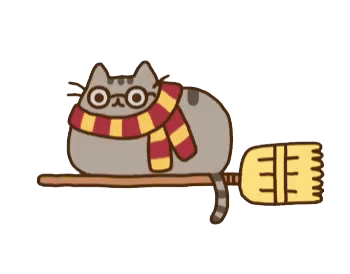
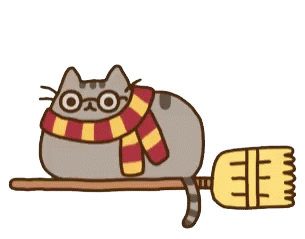
UPDATE
*added Pusheen cats
*really worked on CSS and HTML

diff --git a/css/styles.css b/css/styles.css
@@ -1,3 +1,3 @@
[2 lines of base64/hex data omitted]
 
 /*# sourceMappingURL=styles.css.map */

diff --git a/index.html b/index.html
@@ -25,27 +25,28 @@
     <!-- Doodle Stage -->
     <div id="stage">
 
-<svg version="1.1" id="Layer_1" xmlns="http://www.w3.org/2000/svg" xmlns:xlink="http://www.w3.org/1999/xlink" x="0px" y="0px"
-	 viewBox="0 0 471.2 189" style="enable-background:new 0 0 471.2 189;" xml:space="preserve">
-<title>googletitle</title>
-<g>
-	<path class="st0" d="M13.5,98.7V53.1c0-12.9,3.5-22.3,10.4-28.4c6.9-6,16-9.1,27.2-9.1c11.5,0,20.9,2.8,28.2,8.5
+            <img src="/img/cheetocat.png" alt="">
+
+            <svg version="1.1" id="Layer_1" xmlns="http://www.w3.org/2000/svg" xmlns:xlink="http://www.w3.org/1999/xlink" x="0px" y="0px" viewBox="0 0 471.2 189" style="enable-background:new 0 0 471.2 189;" xml:space="preserve">
+                <title>googletitle</title>
+                <g>
+                    <path class="st0" d="M13.5,98.7V53.1c0-12.9,3.5-22.3,10.4-28.4c6.9-6,16-9.1,27.2-9.1c11.5,0,20.9,2.8,28.2,8.5
 		c7.2,5.7,10.9,13.3,10.9,22.9c0,3.9-0.8,6.6-2.5,8c-1.7,1.4-4.4,2.1-8.1,2.1c-7,0-10.5-2.2-10.6-6.7c-0.3-4.8-1.7-8.7-4.1-11.7
 		c-2.4-3-6.7-4.5-12.9-4.5c-11.4,0-17.2,6.3-17.2,18.8v45.6c0,12.5,5.7,18.8,17,18.8c5.4,0,9.7-1.6,12.7-4.7c3-3.2,4.5-7.8,4.5-14.1
 		v-9.6H55.7c-2.1,0-3.7-0.8-4.8-2.5c-1.1-1.6-1.7-3.6-1.7-5.9c0-2.2,0.6-4.1,1.8-5.8c1.2-1.7,2.8-2.5,4.7-2.5h27.8
 		c2.1,0,3.7,0.7,4.9,2c1.2,1.4,1.8,3,1.8,4.8v19.4c0,13-3.5,22.4-10.5,28.4c-7,6-16.3,9-27.9,9c-11.7,0-20.9-3-27.9-9
-		C17,121.2,13.5,111.7,13.5,98.7z"/>
-	<path class="st0" d="M102.4,103.1V89.7c0-8.9,3.5-16.7,10.5-23.3c7-6.6,15.3-9.9,25-9.9c9.5,0,17.8,3.3,24.8,9.8
+		C17,121.2,13.5,111.7,13.5,98.7z" />
+                    <path class="st0" d="M102.4,103.1V89.7c0-8.9,3.5-16.7,10.5-23.3c7-6.6,15.3-9.9,25-9.9c9.5,0,17.8,3.3,24.8,9.8
 		c7.1,6.5,10.6,14.3,10.6,23.4v13.4c0,8.8-3.5,16.6-10.6,23.4c-7.1,6.8-15.4,10.1-24.8,10.1c-9.5,0-17.8-3.4-24.8-10.1
 		C105.9,119.7,102.4,111.9,102.4,103.1z M123.5,103.1c0,3.9,1.4,7.4,4.2,10.4c2.8,3,6.2,4.5,10.1,4.5c3.8,0,7.2-1.5,10-4.5
 		c2.9-3,4.3-6.5,4.3-10.4V89.8c0-3.7-1.4-7-4.3-10.1c-2.9-3-6.2-4.5-10-4.5c-3.9,0-7.3,1.5-10.1,4.5c-2.8,3-4.2,6.3-4.2,10.1V103.1z
-		"/>
-	<path class="st0" d="M183.8,103.1V89.7c0-8.9,3.5-16.7,10.5-23.3c7-6.6,15.3-9.9,25-9.9c9.5,0,17.8,3.3,24.8,9.8
+		" />
+                    <path class="st0" d="M183.8,103.1V89.7c0-8.9,3.5-16.7,10.5-23.3c7-6.6,15.3-9.9,25-9.9c9.5,0,17.8,3.3,24.8,9.8
 		c7.1,6.5,10.6,14.3,10.6,23.4v13.4c0,8.8-3.5,16.6-10.6,23.4c-7.1,6.8-15.4,10.1-24.8,10.1c-9.5,0-17.8-3.4-24.8-10.1
 		C187.3,119.7,183.8,111.9,183.8,103.1z M204.8,103.1c0,3.9,1.4,7.4,4.2,10.4c2.8,3,6.2,4.5,10.1,4.5c3.8,0,7.2-1.5,10-4.5
 		c2.9-3,4.3-6.5,4.3-10.4V89.8c0-3.7-1.4-7-4.3-10.1c-2.9-3-6.2-4.5-10-4.5c-3.9,0-7.3,1.5-10.1,4.5c-2.8,3-4.2,6.3-4.2,10.1V103.1z
-		"/>
-	<path class="st0" d="M262.4,148.2c0-7.5,4-13.3,11.9-17.3c-4.6-2.2-6.9-5.7-6.9-10.5c0-4.8,2.8-9,8.3-12.7
+		" />
+                    <path class="st0" d="M262.4,148.2c0-7.5,4-13.3,11.9-17.3c-4.6-2.2-6.9-5.7-6.9-10.5c0-4.8,2.8-9,8.3-12.7
 		c-6.8-5.2-10.1-12.1-10.1-20.8v-3.4c0-8,2.9-14.4,8.8-19.4c5.9-5,13.6-7.5,23-7.5c7.2,0,13.4,1.6,18.6,4.7
 		c3.3-7.4,6.6-11.1,10-11.1c2.5,0,4.5,0.7,6,2.1c1.5,1.4,2.3,2.9,2.3,4.4c0,1.7-0.9,3.3-2.6,4.6c-4,2.8-6.6,4.9-7.7,6.2
 		c3.8,4.5,5.7,9.8,5.7,16v3.4c0,7.8-3,14.4-9.1,19.5c-6,5.2-13.8,7.8-23.3,7.8c-3.9,0-7.5-0.5-10.6-1.5c-1.3,1.1-2,2.2-2,3.3
@@ -54,18 +55,18 @@
 		 M282.3,146.1c0,3.6,1.5,6.4,4.6,8.5c3,2.1,6.8,3.1,11.3,3.1c4.5,0,8.2-1,11.1-3.1c2.9-2.1,4.4-4.8,4.4-8.3c0-1.5-0.3-2.9-0.8-4
 		c-0.5-1.1-1.5-2.1-2.9-2.9c-1.4-0.8-2.6-1.4-3.6-1.9c-1-0.5-2.7-0.9-5-1.3c-2.3-0.4-3.9-0.6-5-0.7c-1-0.1-2.8-0.3-5.3-0.7
 		C285.2,137.5,282.3,141.3,282.3,146.1z M286,86.8c0,4.2,1,7.8,3.1,10.5c2.1,2.8,5,4.2,8.7,4.2c3.6,0,6.4-1.3,8.5-4
-		c2.1-2.7,3.1-6.2,3.1-10.5v-3.4c0-4-1.1-7.4-3.2-10.1c-2.1-2.7-5-4.1-8.6-4.1s-6.4,1.3-8.5,4c-2.1,2.7-3.1,6.1-3.1,10.2V86.8z"/>
-	<path class="st0" d="M346.3,128.5V18.8c0-2,1-3.5,2.9-4.7c1.9-1.2,4.4-1.8,7.6-1.8c2.9,0,5.4,0.6,7.5,1.8c2.1,1.2,3.1,2.8,3.1,4.7
-		v109.6c0,1.6-1.1,3.2-3.2,4.6c-2.1,1.4-4.6,2.1-7.4,2.1c-2.9,0-5.4-0.7-7.4-2C347.3,131.7,346.3,130.2,346.3,128.5z"/>
-	<path class="st0" d="M382.3,103.1V89.2c0-8.9,3.5-16.6,10.5-23c7-6.4,15.4-9.6,25.3-9.6c9.3,0,17.2,2.9,23.8,8.8
+		c2.1-2.7,3.1-6.2,3.1-10.5v-3.4c0-4-1.1-7.4-3.2-10.1c-2.1-2.7-5-4.1-8.6-4.1s-6.4,1.3-8.5,4c-2.1,2.7-3.1,6.1-3.1,10.2V86.8z" />
+                    <path class="st0" d="M346.3,128.5V18.8c0-2,1-3.5,2.9-4.7c1.9-1.2,4.4-1.8,7.6-1.8c2.9,0,5.4,0.6,7.5,1.8c2.1,1.2,3.1,2.8,3.1,4.7
+		v109.6c0,1.6-1.1,3.2-3.2,4.6c-2.1,1.4-4.6,2.1-7.4,2.1c-2.9,0-5.4-0.7-7.4-2C347.3,131.7,346.3,130.2,346.3,128.5z" />
+                    <path class="st0" d="M382.3,103.1V89.2c0-8.9,3.5-16.6,10.5-23c7-6.4,15.4-9.6,25.3-9.6c9.3,0,17.2,2.9,23.8,8.8
 		c6.6,5.9,9.9,13.2,9.9,22.1c0,3.2-0.4,5.9-1.2,8c-0.8,2.1-2.1,3.6-3.8,4.4c-1.7,0.9-3.2,1.4-4.7,1.6c-1.4,0.2-3.3,0.3-5.6,0.3
 		h-33.2v2.5c0,4.7,1.7,8.5,5.2,11.4c3.5,2.9,8.1,4.3,13.9,4.3c4.1,0,8.2-1,12.3-3.1c4-2.1,6.6-3.1,7.8-3.1c2.3,0,4.2,1.1,5.7,3.2
 		c1.5,2.1,2.3,4.2,2.3,6.1c0,3.1-2.8,6.1-8.3,9.1c-5.5,3-12.3,4.5-20.5,4.5c-11.7,0-21.2-3.1-28.5-9.2
 		C386,121.2,382.3,113.1,382.3,103.1z M403.4,89.4h23.9c1.7,0,3-0.3,3.7-0.8c0.7-0.6,1.1-1.7,1.1-3.3c0-3.6-1.4-6.5-4.2-8.7
-		c-2.8-2.2-6.2-3.4-10.2-3.4c-3.8,0-7.1,1.1-10,3.3c-2.8,2.2-4.2,5.1-4.2,8.6V89.4z"/>
-</g>
-</svg>
-
+		c-2.8-2.2-6.2-3.4-10.2-3.4c-3.8,0-7.1,1.1-10,3.3c-2.8,2.2-4.2,5.1-4.2,8.6V89.4z" />
+                </g>
+            </svg>
+        </div>
 
 
         <input type="text" />
@@ -74,15 +75,14 @@
             <button>I'm Feeling Lucky</button>
         </div>
 
-    </div>
 
-        <!-- jQuery -->
-        <script src="https://ajax.googleapis.com/ajax/libs/jquery/2.1.3/jquery.min.js"></script>
-        <!-- jQuery Plugin -->
-        <script src="js/plugin.js"></script>
-        <!-- YOUR SCRIPTS GO HERE -->
-        <script src="js/jquery.drawsvg.min.js"></script>
-        <script src="js/scripts.js"></script>
+    <!-- jQuery -->
+    <script src="https://ajax.googleapis.com/ajax/libs/jquery/2.1.3/jquery.min.js"></script>
+    <!-- jQuery Plugin -->
+    <script src="js/plugin.js"></script>
+    <!-- YOUR SCRIPTS GO HERE -->
+    <script src="js/jquery.drawsvg.min.js"></script>
+    <script src="js/scripts.js"></script>
 
 
 </body>

diff --git a/scss/styles.scss b/scss/styles.scss
@@ -1,30 +1,46 @@
-    // Grand Central Station
-    @import 'normalize';
-    @import 'google-homepage';
-    @import url('https://fonts.googleapis.com/css?family=Dosis');
-    //Color Palette
-    $pusheen-pink: #fbf0e4;
-    $pusheen-outline: #523011;
-    
+// Grand Central Station
+@import 'normalize';
+@import 'google-homepage';
+@import url('https://fonts.googleapis.com/css?family=Dosis');
+//Color Palette
+$pusheen-pink: #fbf0e4;
+$pusheen-outline: #523011;
 
-    body {
-        background: $pusheen-pink;
-    }
-    
-    input {
-        height: 2em;
-        width: 600px;
-        margin: auto;
-    }
-    
-    
-    .st0 {
-        fill: none;
-        stroke: $pusheen-outline;
-        stroke-width: 7px;
-        stroke-miterlimit: 10;
-    }
+
+body {
+    background: $pusheen-pink;
+}
+
+input {
+    height: 2em;
+    border: none;
+    width: 55%;
+    background-color: #fff;
+    border-radius: 1em;
+}
+
+
+.st0 {
+    fill: none;
+    stroke: $pusheen-outline;
+    stroke-width: 7px;
+    stroke-miterlimit: 10;
+}
 
 button {
+//    border: 1px solid $pusheen-outline;
+    color: $pusheen-outline;
+    background: #fff;
+    font-family: "Dosis";
+    border-radius: 1em;
+}
+
+img {
+    position: absolute;
+    width: 25%;
+    bottom: 148px;
+    left: 100px;
+    
+    
     
 }

diff --git a/js/scripts.js b/js/scripts.js
@@ -1,4 +1,29 @@
-// YOUR SCRIPTS GO HERE
+// YOUR SCRIPTS GO HERE//
+
+//DRAW SVG
+
 var mySVG = $('svg').drawsvg();
 
 mySVG.drawsvg('animate');
+
+
+
+
+
+
+
+// Store & Generate Number
+var maxRand = 6;
+var numRand = Math.floor(Math.random() * maxRand);
+//console.log(numRand);
+
+// Store images
+var img0 = 'img/cheetocat.png';
+var img1 = 'img/eyebrows.png';
+var img2 = 'img/gangnamstyle.png';
+var img3 = 'img/harrykitty.png';
+var img4 = 'img/ramencat.png';
+var img5 = 'img/sherlockcat.png';
+
+// Show Images
+$('img').attr('src', eval('img' + numRand));

diff --git a/scss/_google-homepage.scss b/scss/_google-homepage.scss
@@ -3,6 +3,9 @@
 #stage {
     background: none;
     overflow: inherit;
+    position: relative;
+    padding-top: 100px;
+
 }
 
 /* DO NOT EDIT BELOW THIS LINE */
